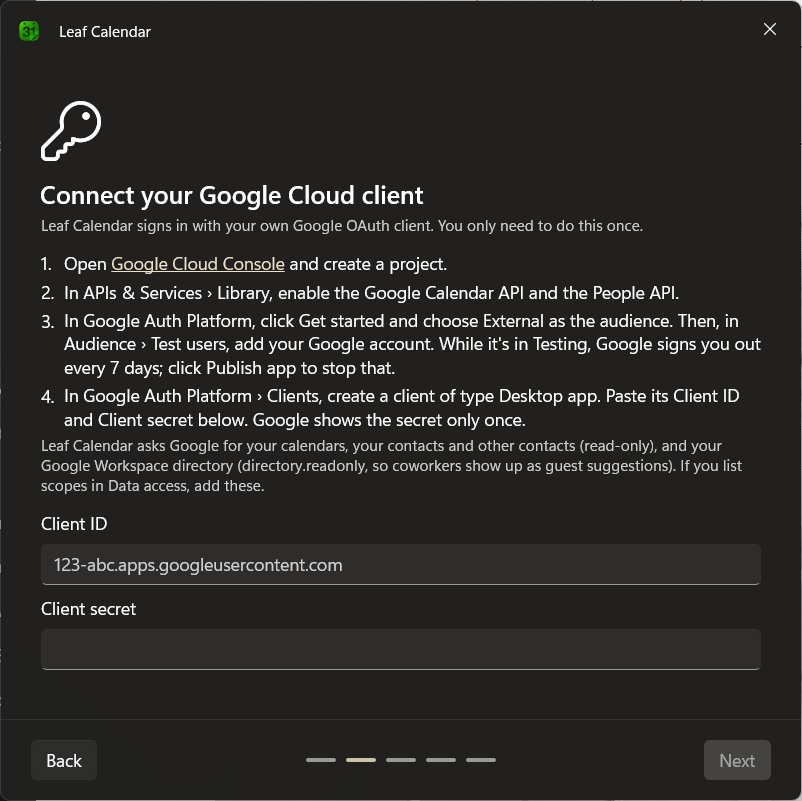
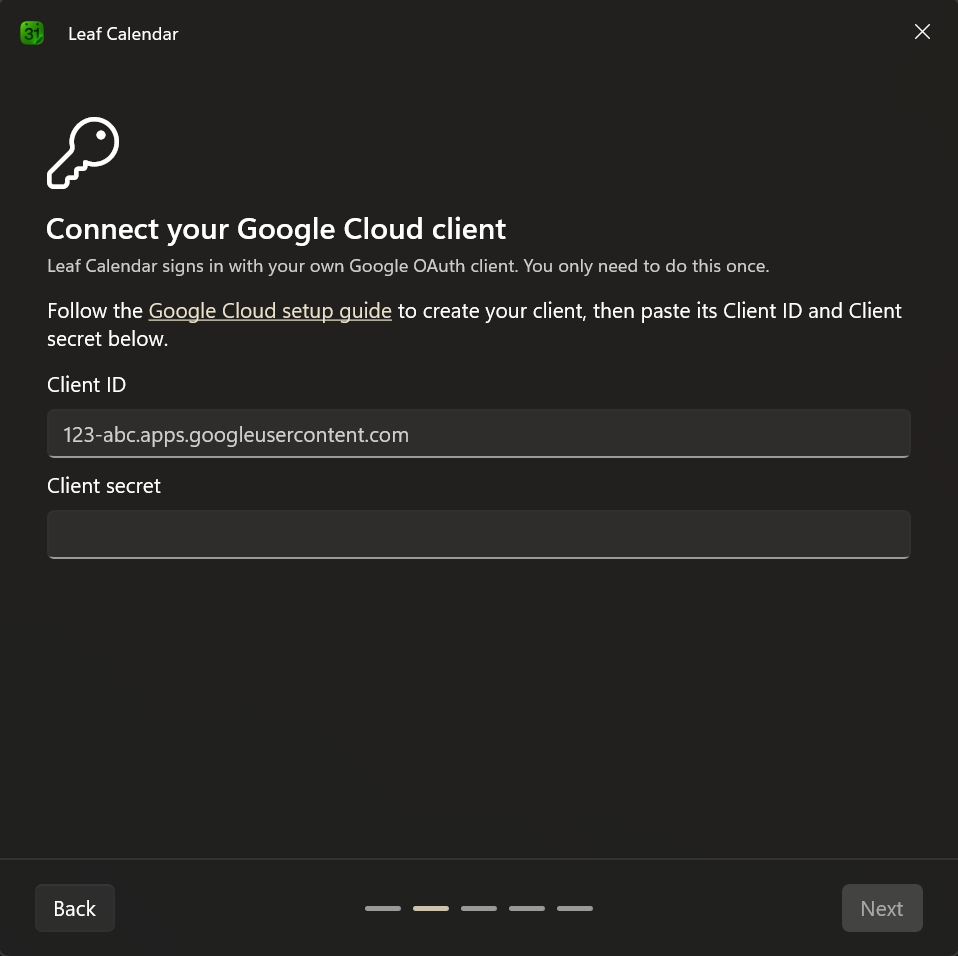
docs(site): the first-run screenshots show the client step's link to the setup guide

diff --git a/site/getting-started/first-run.md b/site/getting-started/first-run.md
@@ -16,7 +16,7 @@ Click **Get started**.
 
 ## 2. Connect your Google Cloud client
 
-![The OAuth client step, with the setup guide and boxes for the Client ID and Client secret](../../assets/images/onboarding-client.png)
+![The OAuth client step, with a link to the Google Cloud setup guide and boxes for the Client ID and Client secret](../../assets/images/onboarding-client.png)
 
 Paste the **Client ID** and **Client secret** from your OAuth client, then click **Next**. Haven't made one yet? Follow the [Google Cloud setup guide](../google-cloud-setup/) first, and don't forget to [add yourself as a test user](../google-cloud-setup/#4-add-yourself-as-a-test-user).
 
